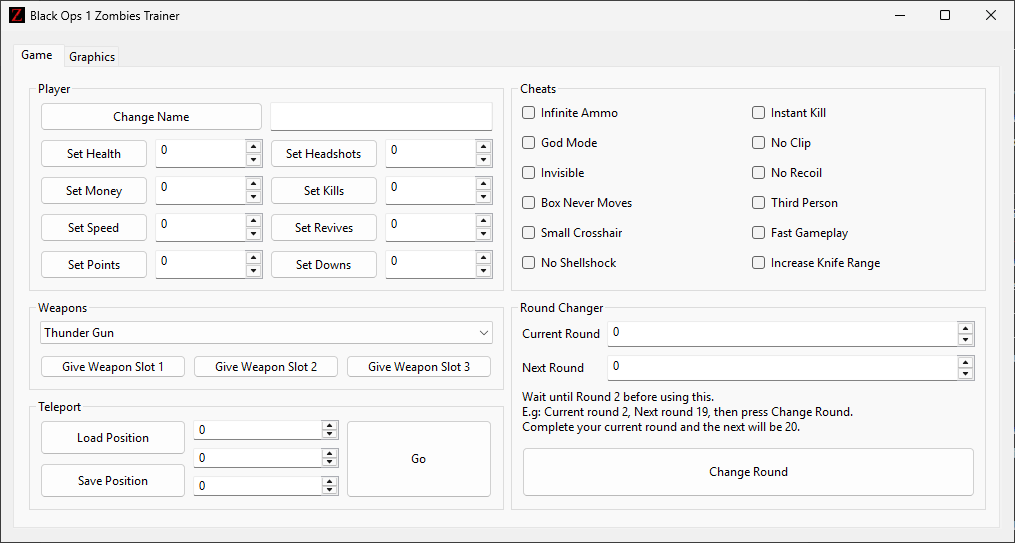
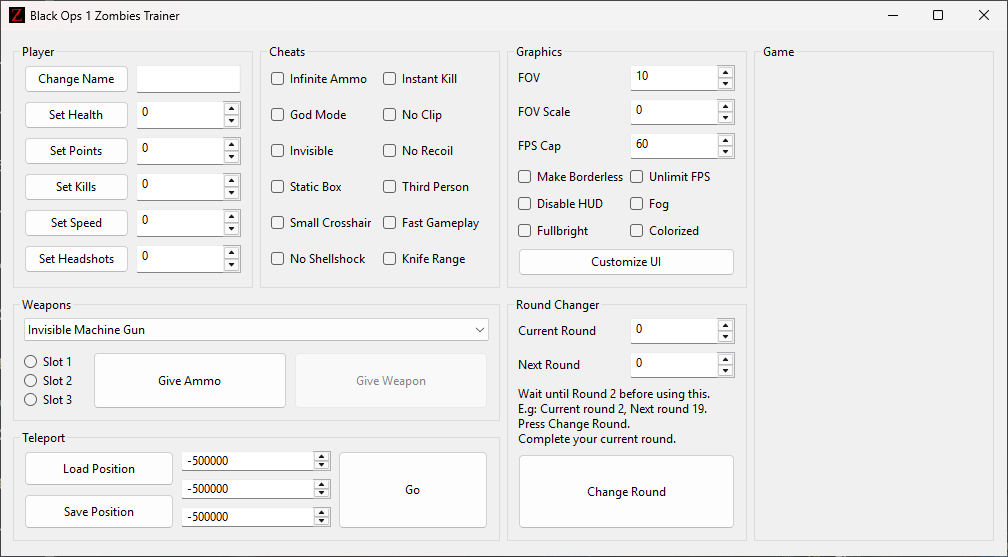
Redistribution of UI

diff --git a/src/gui/graphics/graphics.c b/src/gui/graphics/graphics.c
@@ -14,9 +14,9 @@ static uiSpinbox *fpsSpin = NULL;
 static uiLabel *fovLabel = NULL;
 static uiLabel *fovScaleLabel = NULL;
 static uiLabel *fpsCapLabel = NULL;
-static uiSeparator *separator = NULL;
-static uiButton *unlimitFpsButton = NULL;
 static uiButton *customizeUiButton = NULL;
+static uiCheckbox *makeBorderlessCheckbox = NULL;
+static uiCheckbox *unlimitFpsCheckbox = NULL;
 static uiCheckbox *disableHudCheckbox = NULL;
 static uiCheckbox *fogCheckbox = NULL;
 static uiCheckbox *fullbrightCheckbox = NULL;
@@ -38,15 +38,14 @@ static uiGroup *build(Controller *controllerInstance, uiWindow *parentInstance) 
     fovScaleSpin = uiNewSpinbox(0, 100);
     fpsSpin = uiNewSpinbox(60, 1000);
 
-    separator = uiNewHorizontalSeparator();
-
-    unlimitFpsButton = uiNewButton("Unlimit FPS");
-    customizeUiButton = uiNewButton("Customize UI");
-
+    unlimitFpsCheckbox = uiNewCheckbox(" Unlimit FPS");
+    makeBorderlessCheckbox = uiNewCheckbox(" Make Borderless");
     disableHudCheckbox = uiNewCheckbox(" Disable HUD");
     fogCheckbox = uiNewCheckbox(" Fog");
     fullbrightCheckbox = uiNewCheckbox(" Fullbright");
     colorizedCheckbox = uiNewCheckbox(" Colorized");
+
+    customizeUiButton = uiNewButton("Customize UI");
 
     uiGrid *graphicsGrid = uiNewGrid();
     uiGridSetPadded(graphicsGrid, 1);
@@ -56,12 +55,13 @@ static uiGroup *build(Controller *controllerInstance, uiWindow *parentInstance) 
     uiGridAppend(graphicsGrid, uiControl(fovScaleSpin), 1, 1, 1, 1, 1, uiAlignFill, 0, uiAlignCenter);
     uiGridAppend(graphicsGrid, uiControl(fpsCapLabel), 0, 2, 1, 1, 0, uiAlignFill, 0, uiAlignCenter);
     uiGridAppend(graphicsGrid, uiControl(fpsSpin), 1, 2, 1, 1, 0, uiAlignFill, 0, uiAlignCenter);
-    uiGridAppend(graphicsGrid, uiControl(disableHudCheckbox), 0, 3, 1, 1, 1, uiAlignFill, 0, uiAlignCenter);
-    uiGridAppend(graphicsGrid, uiControl(fogCheckbox), 1, 3, 1, 1, 1, uiAlignFill, 0, uiAlignCenter);
-    uiGridAppend(graphicsGrid, uiControl(fullbrightCheckbox), 0, 4, 1, 1, 1, uiAlignFill, 0, uiAlignCenter);
-    uiGridAppend(graphicsGrid, uiControl(colorizedCheckbox), 1, 4, 1, 1, 1, uiAlignFill, 0, uiAlignCenter);
-    uiGridAppend(graphicsGrid, uiControl(unlimitFpsButton), 0, 5, 1, 1, 1, uiAlignFill, 1, uiAlignFill);
-    uiGridAppend(graphicsGrid, uiControl(customizeUiButton), 1, 5, 1, 1, 1, uiAlignFill, 1, uiAlignFill);
+    uiGridAppend(graphicsGrid, uiControl(makeBorderlessCheckbox), 0, 3, 1, 1, 1, uiAlignFill, 0, uiAlignCenter);
+    uiGridAppend(graphicsGrid, uiControl(unlimitFpsCheckbox), 1, 3, 1, 1, 1, uiAlignFill, 0, uiAlignCenter);
+    uiGridAppend(graphicsGrid, uiControl(disableHudCheckbox), 0, 4, 1, 1, 1, uiAlignFill, 0, uiAlignCenter);
+    uiGridAppend(graphicsGrid, uiControl(fogCheckbox), 1, 4, 1, 1, 1, uiAlignFill, 0, uiAlignCenter);
+    uiGridAppend(graphicsGrid, uiControl(fullbrightCheckbox), 0, 5, 1, 1, 1, uiAlignFill, 0, uiAlignCenter);
+    uiGridAppend(graphicsGrid, uiControl(colorizedCheckbox), 1, 5, 1, 1, 1, uiAlignFill, 0, uiAlignCenter);
+    uiGridAppend(graphicsGrid, uiControl(customizeUiButton), 0, 6, 2, 1, 1, uiAlignFill, 1, uiAlignFill);
 
     uiBoxAppend(graphicsBox, uiControl(graphicsGrid), 1);
 

diff --git a/src/gui/round/round.c b/src/gui/round/round.c
@@ -25,8 +25,8 @@ static uiGroup *build(Controller *controllerInstance, uiWindow *parentInstance) 
     parent = parentInstance;
     // --- Round Changer Group ---
     uiGroup *roundGroup = uiNewGroup("Round Changer");
-    uiBox *roundVBox = uiNewVerticalBox();
-    uiBoxSetPadded(roundVBox, 1);
+    uiBox *roundBox = uiNewVerticalBox();
+    uiBoxSetPadded(roundBox, 1);
 
     uiGrid *roundGrid = uiNewGrid();
     uiGridSetPadded(roundGrid, 1);
@@ -34,23 +34,24 @@ static uiGroup *build(Controller *controllerInstance, uiWindow *parentInstance) 
     currentSpin = uiNewSpinbox(0, 256);
     uiLabel *nextLabel = uiNewLabel("Next Round");
     nextSpin = uiNewSpinbox(0, 256);
-    uiGridAppend(roundGrid, uiControl(currentLabel), 0, 0, 1, 1, 0, uiAlignFill, 0, uiAlignCenter);
-    uiGridAppend(roundGrid, uiControl(currentSpin), 1, 0, 1, 1, 1, uiAlignFill, 0, uiAlignFill);
-    uiGridAppend(roundGrid, uiControl(nextLabel), 0, 1, 1, 1, 0, uiAlignFill, 0, uiAlignCenter);
-    uiGridAppend(roundGrid, uiControl(nextSpin), 1, 1, 1, 1, 1, uiAlignFill, 0, uiAlignFill);
-    uiBoxAppend(roundVBox, uiControl(roundGrid), 0);
 
     uiLabel *infoLabel = uiNewLabel(
-        "Wait until Round 2 before using this.\nE.g: Current round 2, Next round 19, then press Change Round.\nComplete your current round and the next will be 20."
+        "Wait until Round 2 before using this.\nE.g: Current round 2, Next round 19.\nPress Change Round.\nComplete your current round."
     );
-    uiBoxAppend(roundVBox, uiControl(infoLabel), 1);
 
     changeRoundBtn = uiNewButton("Change Round");
     uiButtonOnClicked(changeRoundBtn, onChangeRoundButtonClicked, NULL);
 
-    uiBoxAppend(roundVBox, uiControl(changeRoundBtn), 1);
+    uiGridAppend(roundGrid, uiControl(currentLabel), 0, 0, 1, 1, 0, uiAlignFill, 0, uiAlignCenter);
+    uiGridAppend(roundGrid, uiControl(currentSpin), 1, 0, 1, 1, 0, uiAlignFill, 0, uiAlignCenter);
+    uiGridAppend(roundGrid, uiControl(nextLabel), 0, 1, 1, 1, 0, uiAlignFill, 0, uiAlignCenter);
+    uiGridAppend(roundGrid, uiControl(nextSpin), 1, 1, 1, 1, 0, uiAlignFill, 0, uiAlignCenter);
+    uiGridAppend(roundGrid, uiControl(infoLabel), 0, 2, 2, 1, 1, uiAlignFill, 0, uiAlignCenter);
+    uiGridAppend(roundGrid, uiControl(changeRoundBtn), 0, 3, 2, 1, 1, uiAlignFill, 1, uiAlignFill);
 
-    uiGroupSetChild(roundGroup, uiControl(roundVBox));
+    uiBoxAppend(roundBox, uiControl(roundGrid), 1);
+
+    uiGroupSetChild(roundGroup, uiControl(roundBox));
     uiGroupSetMargined(roundGroup, 1);
     return roundGroup;
 }

diff --git a/src/gui/gui.c b/src/gui/gui.c
@@ -101,11 +101,12 @@ static uiControl* buildWindowContent() {
     uiGridAppend(topLeftGrid, uiControl(playerGroup), 0, 0, 1, 1, 1, uiAlignFill, 0, uiAlignFill);
     uiGridAppend(topLeftGrid, uiControl(cheatGroup), 1, 0, 1, 1, 1, uiAlignFill, 1, uiAlignFill);
 
-    // Top-Right Subgrid (Graphics + Game)
-    uiGrid *topRightGrid = uiNewGrid();
-    uiGridSetPadded(topRightGrid, 1);
-    uiGridAppend(topRightGrid, uiControl(graphicsGroup), 0, 0, 1, 1, 1, uiAlignFill, 0, uiAlignFill);
-    uiGridAppend(topRightGrid, uiControl(gameGroup), 1, 0, 1, 1, 1, uiAlignFill, 1, uiAlignFill);
+    // Top-Right Subgrid (Graphics + Round Changer + Game)
+    uiGrid *rightGrid = uiNewGrid();
+    uiGridSetPadded(rightGrid, 1);
+    uiGridAppend(rightGrid, uiControl(graphicsGroup), 0, 0, 1, 1, 1, uiAlignFill, 1, uiAlignFill);
+    uiGridAppend(rightGrid, uiControl(roundGroup), 0, 1, 1, 1, 1, uiAlignFill, 1, uiAlignFill);
+    uiGridAppend(rightGrid, uiControl(gameGroup), 1, 0, 1, 2, 1, uiAlignFill, 1, uiAlignFill);
 
     // Bottom-Left Subgrid (Weapons + Teleport)
     uiGrid *bottomLeftGrid = uiNewGrid();
@@ -117,10 +118,9 @@ static uiControl* buildWindowContent() {
     uiGrid *mainGrid = uiNewGrid();
     uiGridSetPadded(mainGrid, 1);
     uiGridAppend(mainGrid, uiControl(topLeftGrid), 0, 0, 1, 1, 1, uiAlignFill, 1, uiAlignFill);
-    uiGridAppend(mainGrid, uiControl(topRightGrid), 1, 0, 1, 1, 1, uiAlignFill, 1, uiAlignFill);
     uiGridAppend(mainGrid, uiControl(bottomLeftGrid), 0, 1, 1, 1, 1, uiAlignFill, 1, uiAlignFill);
-    uiGridAppend(mainGrid, uiControl(roundGroup), 1, 1, 1, 1, 1, uiAlignFill, 1, uiAlignFill);
-
+    uiGridAppend(mainGrid, uiControl(rightGrid), 1, 0, 1, 2, 1, uiAlignFill, 1, uiAlignFill);
+    
     return uiControl(mainGrid);
 }
 

diff --git a/src/gui/player/player.c b/src/gui/player/player.c
@@ -70,6 +70,9 @@ static uiGroup *build(Controller *controllerInstance, uiWindow *parentInstance) 
     controller = controllerInstance;
     parent = parentInstance;
     uiGroup *playerGroup = uiNewGroup("Player");
+    uiBox *playerBox = uiNewVerticalBox();
+    uiBoxSetPadded(playerBox, 1);
+
     uiGrid *playerGrid = uiNewGrid();
     uiGridSetPadded(playerGrid, 1);
 
@@ -114,8 +117,9 @@ static uiGroup *build(Controller *controllerInstance, uiWindow *parentInstance) 
     uiGridAppend(playerGrid, uiControl(headshotsBtn), 0, 6, 1, 1, 1, uiAlignFill, 1, uiAlignFill);
     uiGridAppend(playerGrid, uiControl(headshotsSpin),1, 6, 1, 1, 1, uiAlignFill, 1, uiAlignFill);
 
+    uiBoxAppend(playerBox, uiControl(playerGrid), 1);
 
-    uiGroupSetChild(playerGroup, uiControl(playerGrid));
+    uiGroupSetChild(playerGroup, uiControl(playerBox));
     uiGroupSetMargined(playerGroup, 1);
     return playerGroup;
 }

diff --git a/src/gui/game/game.c b/src/gui/game/game.c
@@ -7,7 +7,6 @@ static Controller *controller;
 // Parent Window instance
 static uiWindow *parent;
 
-
 static uiGroup *build(Controller *controllerInstance, uiWindow *parentInstance) {
     controller = controllerInstance;
     parent = parentInstance;
